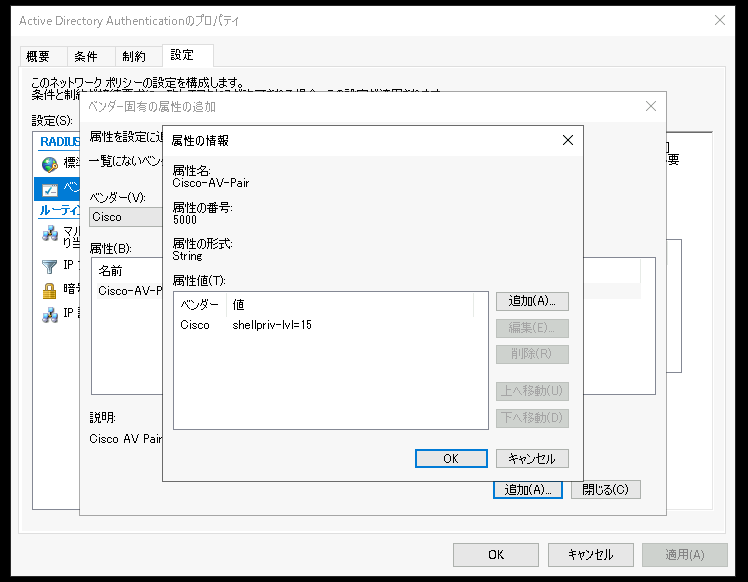
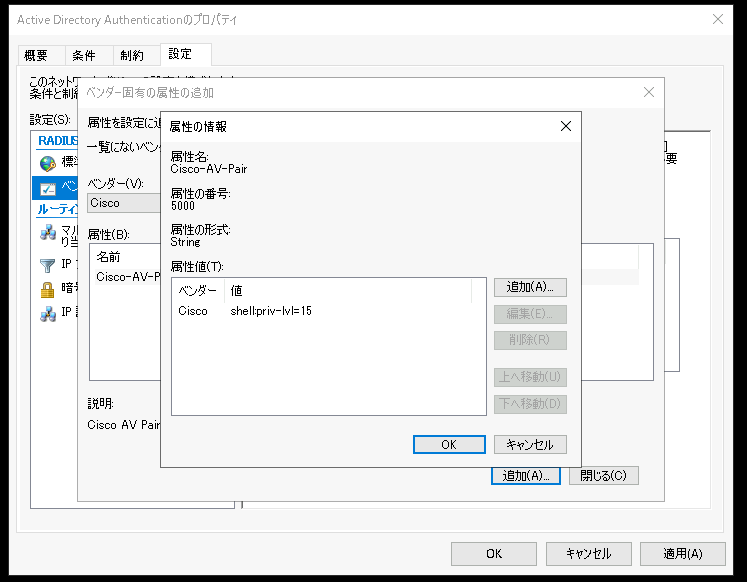
update

Changed region(s): [[0.0, 0.0, 0.9853, 1.0], [0.8621, 0.1546, 0.8929, 0.2165], [0.2155, 0.7732, 0.2463, 0.8351]]

diff --git a/RADIUS認証環境構築.md b/RADIUS認証環境構築.md
@@ -303,6 +303,12 @@
 1. 以下のコマンドを実行し、特権モードからグローバルコンフィギュレーションモードに遷移する  
     Router2# ***conf t***  
 
+    ```
+    CSR2#conf t
+    Enter configuration commands, one per line.  End with CNTL/Z.
+    CSR2(config)#
+    ```
+
 1. 以下のコマンドを実行し、RADIUSサーバー(WinSrv2)の接続情報を定義する     
     Router2(config)# ***radius server WINRADIUS***  
     Router2(config-radius-server)# ***address ipv4 10.X.2.105***    
@@ -470,6 +476,31 @@
 
 1. [設定]タブをクリックして選択する  
 
+1. [RADIUS属性]-[標準]をクリックして選択する  
+
+1. "属性:"欄の[Service-Type]をクリックして選択し、[編集]をクリックする  
+
+    <kbd>![img](image/18/081.png)</kbd>  
+
+1. [属性の情報]ウィンドウが表示されたことを確認する  
+
+    <kbd>![img](image/18/082.png)</kbd>  
+
+1. [属性の情報]ウィンドウで、以下のパラメータを選択する  
+
+    - [ ] ダイヤルアップまたはVPNで一般的に使用する  
+    - [ ] 802.1Xで一般的に使用する  
+    - [x] その他
+        `Adminitrative`
+
+    <kbd>![img](image/18/083.png)</kbd>  
+
+1. [属性の情報]ウィンドウで、[OK]をクリックする    
+
+1. "属性:"欄の[Service-Type]の値が "Adminitrative" であることを確認する  
+
+    <kbd>![img](image/18/084.png)</kbd>  
+
 1. [RADIUS属性]-[ベンダー固有]をクリックして選択し、[追加]をクリックする  
     <kbd>![img](image/18/062.png)</kbd>  
 
@@ -506,7 +537,7 @@
 1. [属性の情報]ウィンドウで、以下のパラメータを入力する  
 
     属性値:  
-    `shellpriv-lvl=15`
+    `shell:priv-lvl=15`
 
     > 【補足】
     > このRADIUS属性値は、ログイン認証後の管理操作(SHell)における権利レベル(Privilege Level)が、特権モード(15)であることを意味します。  
@@ -526,6 +557,133 @@
 1. [Active Directory AUthenticationのプロパティ]ウィンドウで、属性が追加されていることを確認し、[OK]をクリックする  
 
     <kbd>![img](image/18/072.png)</kbd>  
+
+
+
+
+---   
+
+## Cisco AAAのRADIUS認可を構成し、Active DirecotryユーザーTomの特権モード アクセスを許可する    
+
+1. Router2の管理画面に接続する   
+
+1. 以下のコマンドを実行し、特権モードからグローバルコンフィギュレーションモードに遷移する  
+    Router2# ***conf t***  
+
+    ```
+    CSR2#conf t
+    Enter configuration commands, one per line.  End with CNTL/Z.
+    CSR2(config)#
+    ```
+
+1. 以下のコマンドを実行し、管理ログイン時に使用する認証方式を指定する           
+    Router2(config)# ***aaa authorization exec EXECRADIUS group RADIUSSERVERS local ***  
+    
+    ```
+    CSR2(config)#aaa authorization exec EXECRADIUS group RADIUSSERVERS local
+    ```
+
+    > 【補足】  
+    > このコマンドでは、"EXECRADIUS"という名称の認可プロファイルを構成しています。    
+    > ① ログイン認証後に与える認可レベルの決定方式として、RADIUSサーバー グループ(RADIUSSERVERS)を最優先で使用する  
+    > ② ただし、RADIUSサーバーに接続できない場合は、ローカルユーザーDB(local)を使用する    
+
+1. 以下のコマンドを実行し、管理接続時の認可方式を指定する        
+    Router2(config)# ***line vty 14 15***  
+    Router2(config-line)# ***authorization exec EXECRADIUS***  
+    Router2(config-line)# ***exit***  
+
+     
+    ```
+    CSR2(config)#line vty 14 15
+    CSR2(config-line)#authorization exec EXECRADIUS
+    CSR2(config-line)#exit
+    CSR2(config)#
+    ```
+
+
+---  
+
+# RAIDUS認証と認可の動作を確認する  
+
+1. Clientでターミナルソフト(Teraterm)を起動する    
+    1. 操作コンピュータを変更するため、演習環境のトップページに戻る  
+    1. Windows Client(WinClient)の管理画面に "admin" で接続する   
+    1. [スタートメニュー]-[T]-[Tera Term]-[Tera Term]をクリックする  
+    1. [Tera Term]が起動されたことを確認する  
+
+
+1. Router2にTelnetで接続し、RADIUS認証が成功することを確認する     
+
+    1. [Tera Term:新しい接続]ポップアップで以下のパラメータを入力する
+
+        - [x] TCP/IP  
+            ホスト:
+            `10.X.2.254`
+
+            - [x] ヒストリ
+
+            サービス:
+            - [x] Telnet  
+            - [ ] SSH  
+            - [ ] その他
+
+            TCPポート番号:
+            `23`
+
+            SSHバージョン:
+            `SSH2`
+
+            IPバージョン:
+            `AUTO`
+
+        - [ ] シリアル  
+            ポート:
+            `COM2 CoOmmunications Port(COM2)`
+
+        <kbd>![img](image/18/053.png)</kbd>  
+
+    1. [Tera Term:新しい接続]ポップアップで[OK]をクリックする  
+    1. Telnet接続のための認証プロンプトが表示されたことを確認する  
+        <kbd>![img](image/18/054.png)</kbd>  
+
+    1. Telnet接続の認証情報としてTomのユーザー名とパスワードを入力する    
+        
+
+        User Access Verification    
+        username: ***Tom***    
+        Password: ***Pa\$\$w0rd***
+
+    1. Router2に接続できたことを確認する  
+
+        <kbd>![img](image/18/091.png)</kbd>  
+
+1. 特権モードでログインしていることを確認する  
+
+    1. 以下のコマンドを実行し、特権モード(privilege level 15)でログインしていることを確認する  
+        Router2# ***show privilege***  
+
+        ```
+        CSR2#show privilege
+        Current privilege level is 15
+        CSR2#
+        ```
+
+        <kbd>![img](image/18/092.png)</kbd>  
+
+    1. 以下のコマンドを実行し、特権モードの管理操作(config保存)が実行できることを確認する  
+
+        Router2# ***write***  
+
+        ```
+        CSR2#write
+        Building configuration...
+        [OK]
+        CSR2#
+        ```
+
+        <kbd>![img](image/18/093.png)</kbd>  
+
 
 ---
 
